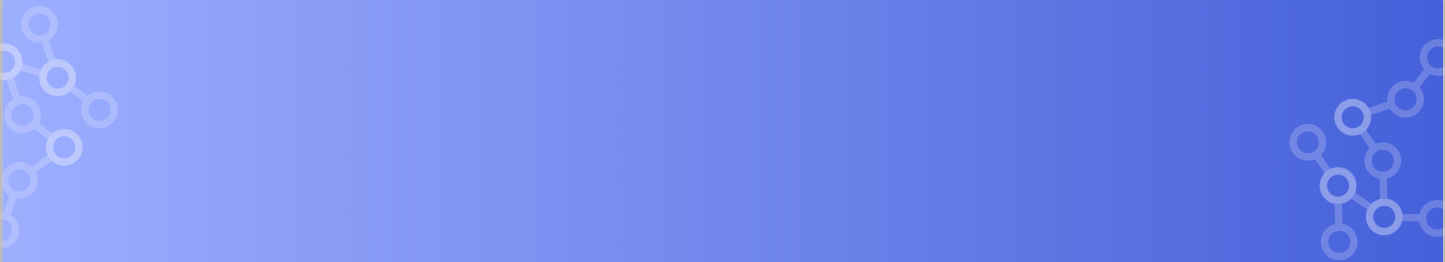
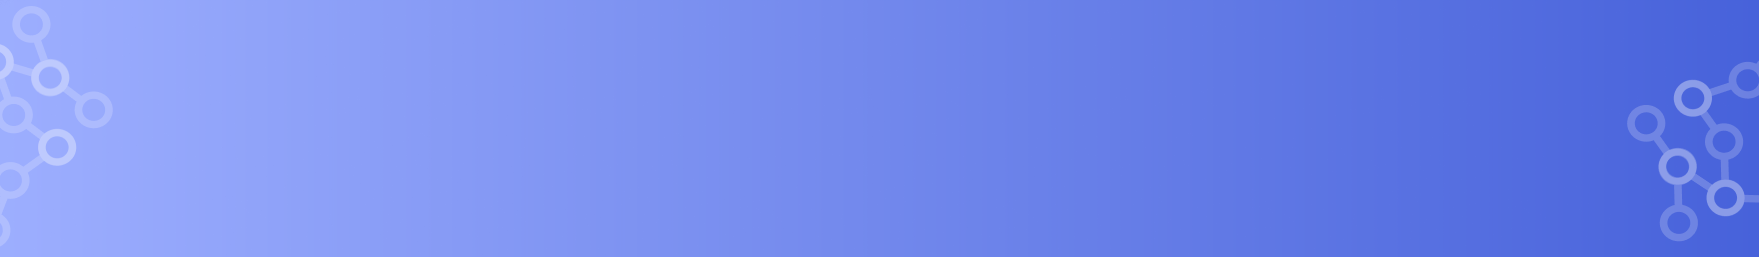
메인 페이지 슬로건 배경 이미지 수정

Changed region(s): [[0.872, 0.0, 1.0, 1.0], [0.0, 0.1556, 0.0623, 0.3735], [0.0, 0.4981, 0.0623, 0.6537]]

diff --git a/my-app/src/css/main.module.css b/my-app/src/css/main.module.css
@@ -157,10 +157,11 @@
 
 #main_bottom {
     margin-top: 20vh;
-    width: 100%;
+    width: 100vw;
     height: 30vh;
-    background-image: url("/media/main_bottom.png");
-    background-color: #2f44a3;
+    background-image: url("../media/main_bottom.png");
+    background-repeat: no-repeat;
+    /* background-color: #2f44a3; */
     color: white;
     text-align: center;
     font-size: 2em;
